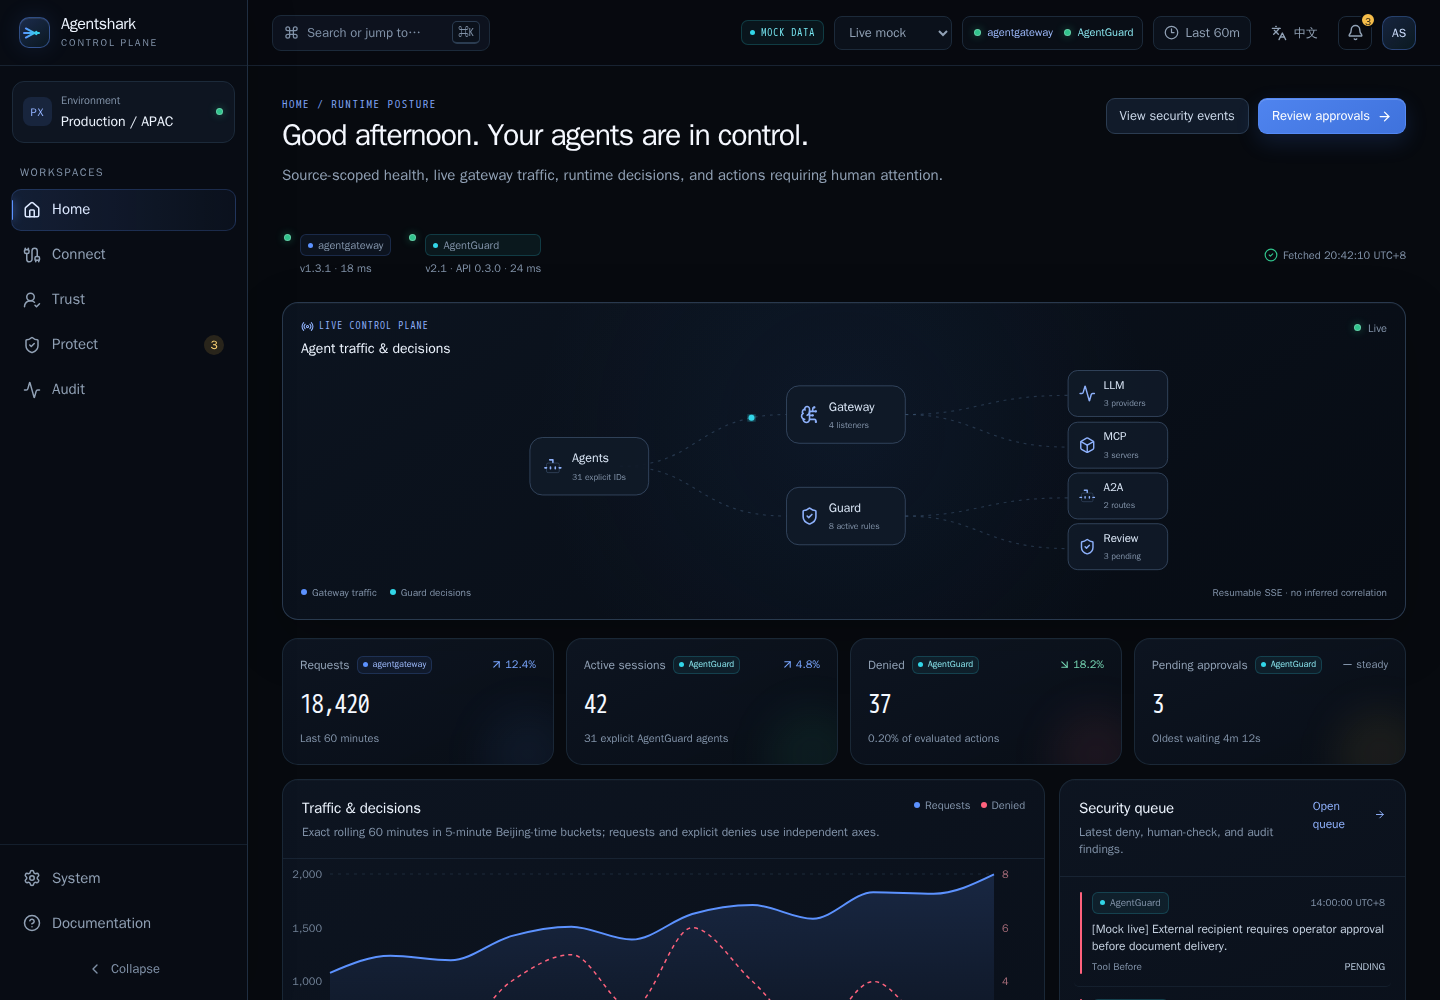
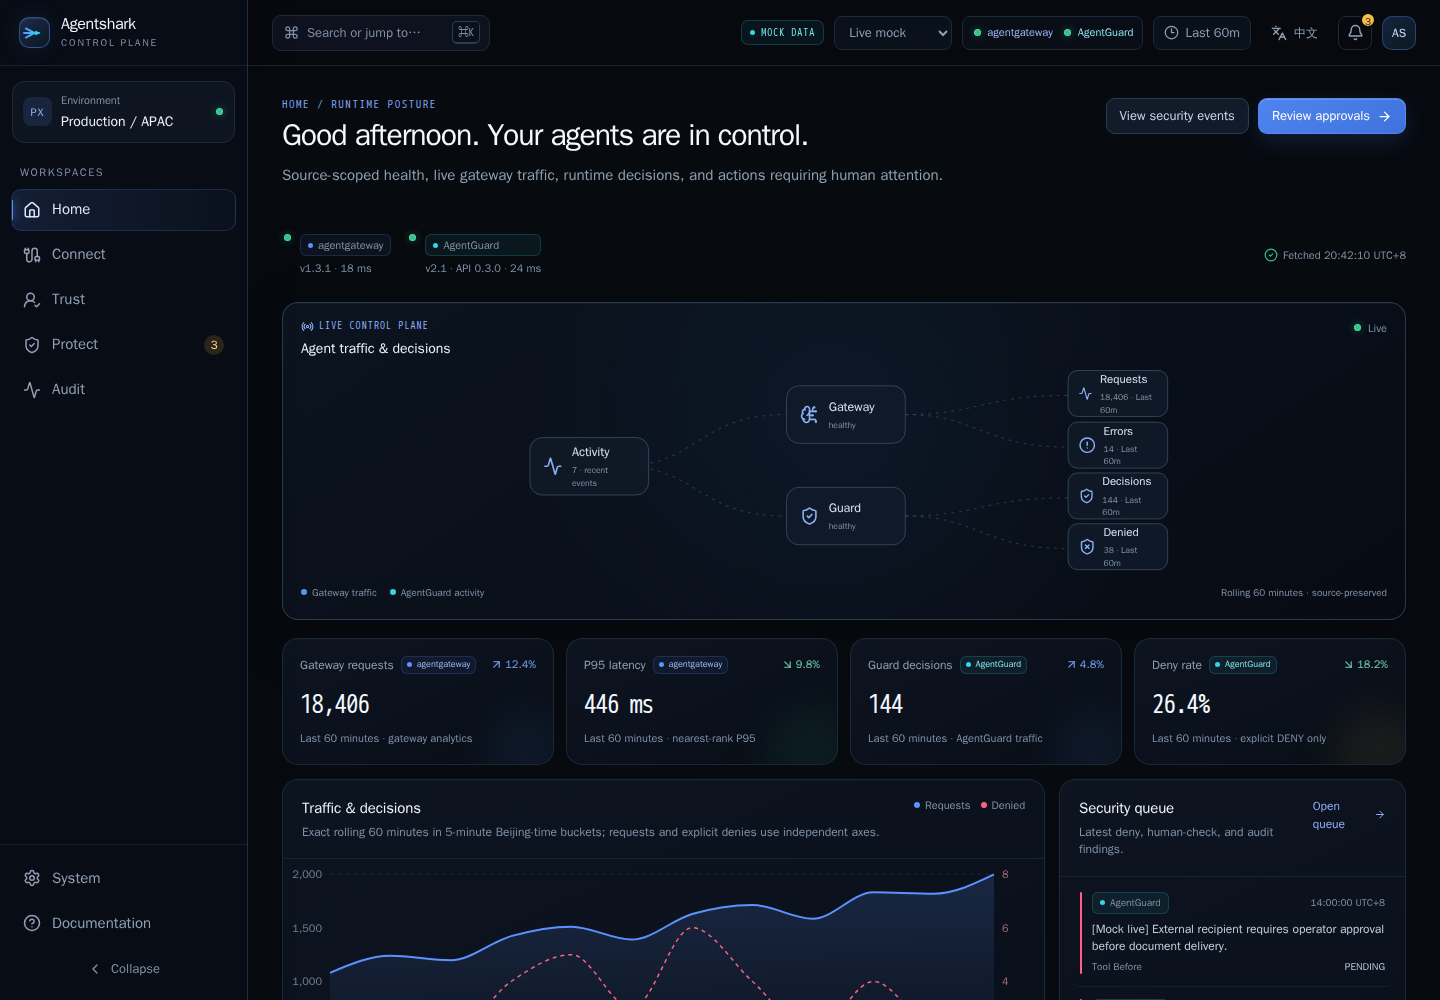
fix(ci): stabilize browser acceptance suite

diff --git a/apps/web/tests/visual.spec.ts b/apps/web/tests/visual.spec.ts
@@ -1,10 +1,18 @@
-import { expect, test } from "@playwright/test";
+import { expect, test, type Page } from "@playwright/test";
+
+async function waitForStableShell(page: Page) {
+  await expect(page.getByRole("link", { name: "3 pending approvals" })).toBeVisible();
+}
 
 test("desktop home visual baseline", async ({ page }) => {
   await page.setViewportSize({ width: 1440, height: 1000 });
+  await page.emulateMedia({ reducedMotion: "reduce" });
   await page.clock.setFixedTime(new Date("2026-07-21T06:00:00Z"));
   await page.goto("/");
   await expect(page.getByRole("heading", { name: /agents are in control/i })).toBeVisible();
+  await waitForStableShell(page);
+  await expect(page.locator(".live-flow")).toHaveAttribute("data-motion", "reduced");
+  await expect(page.getByText("7 · recent events", { exact: true })).toBeVisible();
   await expect(page).toHaveScreenshot("home-1440.png");
 });
 
@@ -12,6 +20,7 @@ test("laptop audit visual baseline", async ({ page }) => {
   await page.setViewportSize({ width: 1280, height: 800 });
   await page.goto("/audit/analytics");
   await expect(page.getByRole("heading", { name: "See every verified signal" })).toBeVisible();
+  await waitForStableShell(page);
   await expect(page).toHaveScreenshot("audit-1280.png");
 });
 
@@ -21,6 +30,7 @@ test("laptop Connect visual baseline", async ({ page }) => {
   await expect(
     page.getByRole("heading", { name: "Connect agents to every destination" }),
   ).toBeVisible();
+  await waitForStableShell(page);
   await expect(page).toHaveScreenshot("connect-1280.png");
 });
 
@@ -30,6 +40,7 @@ test("laptop Trust visual baseline", async ({ page }) => {
   await expect(
     page.getByRole("heading", { name: "Know what every agent can reach" }),
   ).toBeVisible();
+  await waitForStableShell(page);
   await expect(page).toHaveScreenshot("trust-1280.png");
 });
 
@@ -39,6 +50,7 @@ test("laptop Protect visual baseline", async ({ page }) => {
   await expect(
     page.getByRole("heading", { name: "Enforce every critical boundary" }),
   ).toBeVisible();
+  await waitForStableShell(page);
   await expect(page).toHaveScreenshot("protect-1280.png");
 });
 
@@ -46,12 +58,14 @@ test("laptop Guardrails visual baseline", async ({ page }) => {
   await page.setViewportSize({ width: 1280, height: 900 });
   await page.goto("/protect/guardrails");
   await expect(page.getByRole("heading", { name: "LLM guardrails" })).toBeVisible();
+  await waitForStableShell(page);
   await expect(page).toHaveScreenshot("guardrails-1280.png");
 });
 
 test("runtime rule composer visual baseline", async ({ page }) => {
   await page.setViewportSize({ width: 800, height: 700 });
   await page.goto("/protect/runtime-rules");
+  await waitForStableShell(page);
   await page.getByRole("button", { name: "New rule" }).click();
   await expect(page.getByRole("dialog", { name: "Publish runtime rule" })).toBeVisible();
   await expect(page).toHaveScreenshot("runtime-rule-dialog-800.png");
@@ -59,10 +73,12 @@ test("runtime rule composer visual baseline", async ({ page }) => {
 
 test("degraded System diagnostic visual baseline", async ({ page }) => {
   await page.setViewportSize({ width: 1440, height: 1200 });
+  await page.clock.setFixedTime(new Date("2026-07-21T06:00:00Z"));
   await page.goto("/system?scenario=partial");
   await expect(
     page.getByRole("heading", { name: "Sources, versions & capabilities" }),
   ).toBeVisible();
   await expect(page.getByText(/AgentGuard management probes are unavailable/)).toBeVisible();
+  await waitForStableShell(page);
   await expect(page).toHaveScreenshot("system-degraded-1440.png", { fullPage: true });
 });

diff --git a/apps/web/tests/console.spec.ts b/apps/web/tests/console.spec.ts
@@ -175,7 +175,7 @@ test("interactive controls have observable behavior", async ({ page }) => {
   await expect(page.locator("tbody tr")).toHaveCount(1);
   await expect(page.locator("tbody tr")).toContainText("shell invocation");
 
-  await page.getByRole("link", { name: "Open system settings" }).click();
+  await page.getByRole("link", { name: /Open system settings/ }).click();
   await expect(page).toHaveURL(/\/system$/);
   await expect(
     page.getByRole("heading", { name: "Sources, versions & capabilities" }),
@@ -689,24 +689,28 @@ test("empty, loading, partial, and total failure states are explicit", async ({ 
 
 test("an audit detail drawer is recoverable from its URL", async ({ page }) => {
   await page.goto("/audit/security-events");
-  const row = page.locator("tbody tr").first();
+  const title = "Runtime rule blocked a shell invocation outside the workspace boundary.";
+  const row = page.locator("tbody tr").filter({ hasText: title });
+  await expect(row).toHaveCount(1);
   await row.click();
   await expect(page).toHaveURL(/\/audit\/security-events\?event=/);
   const dialog = page.getByRole("dialog");
   await expect(dialog).toBeVisible();
-  const title = await dialog.getByRole("heading", { level: 2 }).textContent();
+  await expect(dialog.getByRole("heading", { level: 2, name: title })).toBeVisible();
 
   await page.keyboard.press("Escape");
   await expect(dialog).toBeHidden();
   const selectedRow = page
     .locator("tbody tr")
-    .filter({ has: page.getByText(title ?? "", { exact: true }) })
+    .filter({ has: page.getByText(title, { exact: true }) })
     .first();
   await expect(selectedRow).toBeFocused();
   await selectedRow.click();
 
   await page.reload();
-  await expect(page.getByRole("dialog").getByRole("heading", { level: 2 })).toHaveText(title ?? "");
+  await expect(
+    page.getByRole("dialog").getByRole("heading", { level: 2, name: title }),
+  ).toBeVisible();
 });
 
 test("audit traffic and security tables show the full Beijing calendar date", async ({ page }) => {

diff --git a/apps/web/src/app/app-shell.tsx b/apps/web/src/app/app-shell.tsx
@@ -109,6 +109,12 @@ export function AppShell() {
     staleTime: 15_000,
     retry: false,
   });
+  const approvals = useQuery({
+    queryKey: ["protect-approvals", scenario],
+    queryFn: ({ signal }) => requestOperation("listApprovals", { signal, query: { limit: 100 } }),
+    staleTime: 15_000,
+    retry: false,
+  });
   const live = useLiveEvents(overview.isSuccess && scenario !== "empty");
 
   useEffect(() => {
@@ -120,8 +126,7 @@ export function AppShell() {
     if (event) void synchronizeLiveEvent(queryClient, event);
   }, [live.events[0]?.id, queryClient]);
 
-  const pending =
-    overview.data?.data.metrics.find((metric) => metric.id === "approvals")?.value ?? 0;
+  const pending = approvals.data?.data.total ?? 0;
   const health = overview.data?.data.health ?? [];
 
   return (
@@ -362,7 +367,7 @@ export function AppShell() {
               {pending ? <span>{pending}</span> : null}
             </Link>
             <Link
-              aria-label={t("Open system settings")}
+              aria-label={`AS · ${t("Open system settings")}`}
               className="avatar"
               search={{ scenario: scenario === "normal" ? undefined : scenario }}
               to="/system"

diff --git a/apps/web/src/mocks/data.ts b/apps/web/src/mocks/data.ts
@@ -12,6 +12,8 @@ import type {
   TrustScanJob,
 } from "../generated/api-client";
 
+const connectFetchedAt = "2026-07-21T12:42:10Z";
+
 export const baseEvents: UnifiedEvent[] = [
   {
     id: "guard-audit-9017",
@@ -201,6 +203,7 @@ export const overviewData: OverviewData = {
       status: "healthy",
       version: "v1.3.1",
       latencyMs: 18,
+      checkedAt: connectFetchedAt,
       message: "Admin and readiness probes responding",
     },
     {
@@ -209,6 +212,7 @@ export const overviewData: OverviewData = {
       status: "healthy",
       version: "v2.1 · API 0.3.0",
       latencyMs: 24,
+      checkedAt: connectFetchedAt,
       message: "Runtime control plane responding",
     },
   ],
@@ -269,8 +273,6 @@ export const overviewData: OverviewData = {
     ],
   },
 };
-
-const connectFetchedAt = "2026-07-21T12:42:10Z";
 
 const resource = (id: string) => ({
   id,

diff --git a/apps/web/src/motion/dashboard-motion.test.tsx b/apps/web/src/motion/dashboard-motion.test.tsx
@@ -10,6 +10,7 @@ const health: SourceHealth[] = [
     label: "agentgateway",
     status: "healthy",
     latencyMs: 12,
+    checkedAt: "2026-07-21T12:42:10Z",
     message: "ready",
   },
   {
@@ -17,6 +18,7 @@ const health: SourceHealth[] = [
     label: "AgentGuard",
     status: "degraded",
     latencyMs: 22,
+    checkedAt: "2026-07-21T12:42:10Z",
     message: "partial",
   },
 ];

diff --git a/apps/web/src/types/index.ts b/apps/web/src/types/index.ts
@@ -9,6 +9,7 @@ export interface SourceHealth {
   status: HealthStatus;
   version?: string;
   latencyMs: number | null;
+  checkedAt: string;
   message: string;
 }
 
